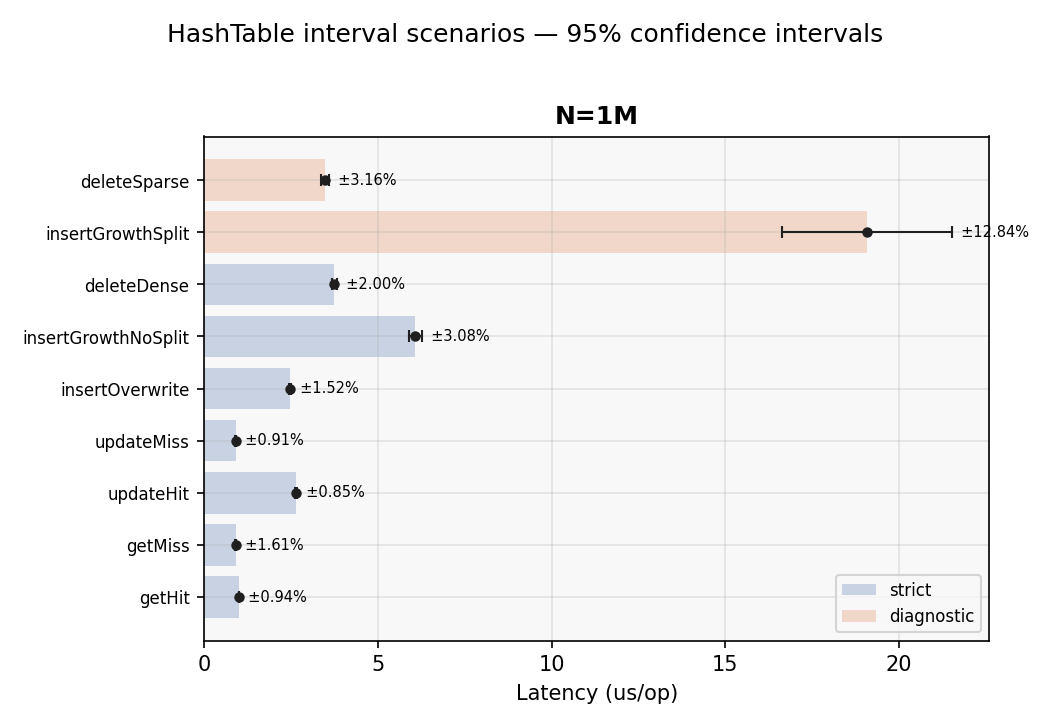
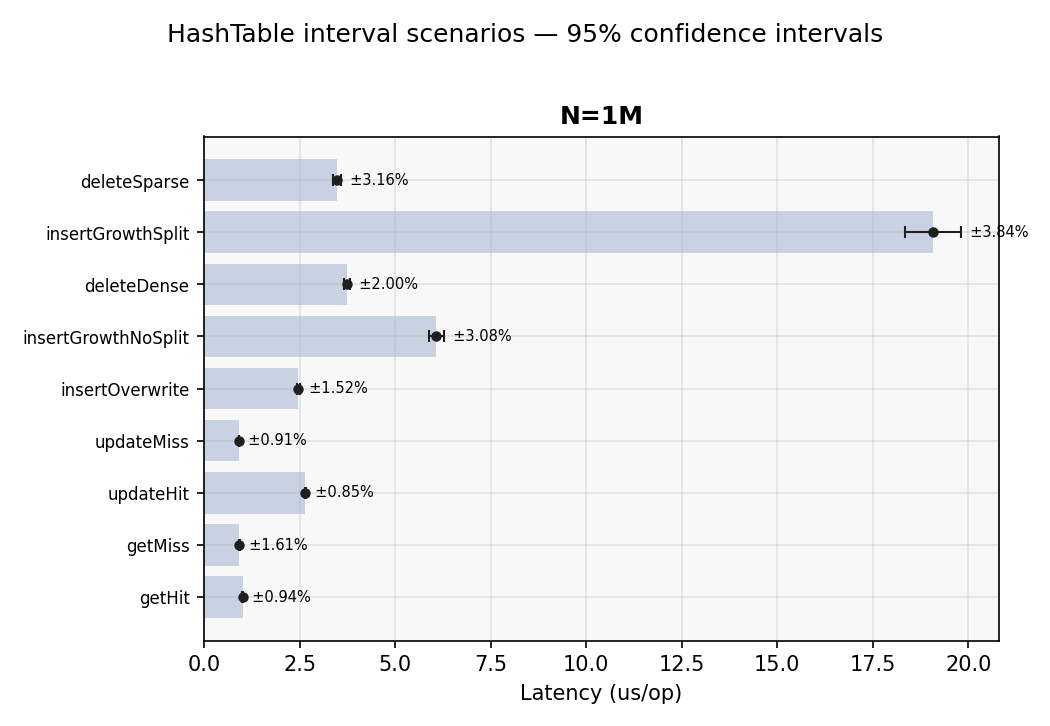
update report

diff --git a/src/jmh/kotlin/dbalgo/hashtable/HashTableIntervalBenchmark.kt b/src/jmh/kotlin/dbalgo/hashtable/HashTableIntervalBenchmark.kt
@@ -472,10 +472,17 @@ open class HashTableIntervalBenchmark {
         }
     }
 
-    private fun scenarioPrewarmKeys(): Array<String> = when {
-        scenario.spec.stringBatch != null -> stringBatch(scenario.spec.stringBatch)
-        scenario.spec.insertBatch != null -> insertBatch(scenario.spec.insertBatch).map { it.key }.toTypedArray()
-        else -> emptyArray()
+    private fun scenarioPrewarmKeys(): Array<String> {
+        val spec = scenario.spec
+        val stringBatch = spec.stringBatch
+        if (stringBatch != null) {
+            return stringBatch(stringBatch)
+        }
+        val insertBatch = spec.insertBatch
+        if (insertBatch != null) {
+            return insertBatch(insertBatch).map { it.key }.toTypedArray()
+        }
+        return emptyArray()
     }
 
     private fun buildHalfFilledSnapshot(dir: Path) {

diff --git a/docs/gen_charts.py b/docs/gen_charts.py
@@ -17,7 +17,6 @@ matplotlib.use("Agg")
 import matplotlib.pyplot as plt
 import matplotlib.ticker as mticker
 import numpy as np
-from matplotlib.patches import Patch
 
 from jmh_report_lib import (
     COLLAPSED,
@@ -39,6 +38,7 @@ from jmh_report_lib import (
     pick_display_unit,
     rel_err,
     relative_error,
+    effective_error,
     replace_report_block,
     require_entry_count,
     require_sizes,
@@ -608,18 +608,6 @@ ht_order = [
     "insertGrowthSplit",
     "deleteSparse",
 ]
-ht_tier = {
-    "getHit": "strict",
-    "getMiss": "strict",
-    "updateHit": "strict",
-    "updateMiss": "strict",
-    "insertOverwrite": "strict",
-    "insertGrowthNoSplit": "strict",
-    "deleteDense": "strict",
-    "insertGrowthSplit": "diagnostic",
-    "deleteSparse": "diagnostic",
-}
-
 ht_ci_entries = collect_ci_entries(
     hash_interval_entries,
     "dbalgo.hashtable.HashTableIntervalBenchmark.bench",
@@ -641,8 +629,8 @@ if ht_ci_entries:
 
         y = np.arange(len(subset))
         means = [convert_ms_to_unit(entry["score"], unit) for entry in subset]
-        errors = [convert_ms_to_unit(entry["error"], unit) for entry in subset]
-        colors = ["#4C72B0" if ht_tier.get(entry["operation"]) == "strict" else "#DD8452" for entry in subset]
+        errors = [convert_ms_to_unit(effective_error(entry), unit) for entry in subset]
+        colors = ["#4C72B0" for _ in subset]
 
         ax.barh(y, means, color=colors, alpha=0.28, edgecolor="none")
         ax.errorbar(
@@ -669,14 +657,6 @@ if ht_ci_entries:
         ax.set_xlabel(f"Latency ({unit}/op)")
         ax.set_title(f"N={size_to_label(size)}")
 
-    axes[0].legend(
-        handles=[
-            Patch(facecolor="#4C72B0", alpha=0.28, label="strict"),
-            Patch(facecolor="#DD8452", alpha=0.28, label="diagnostic"),
-        ],
-        loc="lower right",
-        fontsize=8,
-    )
     fig.suptitle("HashTable interval scenarios — 95% confidence intervals", y=1.02)
     fig.tight_layout()
     save(fig, "ht_confidence.png")
@@ -805,20 +785,22 @@ def format_number(value, unit="", digits=2):
     return f"{value:.{digits}f}{suffix}"
 
 
-def confidence_rows(entries, unit):
+def confidence_rows(entries, unit, include_tier=True):
     rows = []
     for entry in entries:
         score, error, lo, hi = scale_metric(entry, unit)
-        rows.append([
-            entry["tier"],
+        row = []
+        if include_tier:
+            row.append(entry["tier"])
+        row.extend([
             entry["operation"],
             entry["mode"],
             size_to_label(entry["data_size"]),
             format_number(score, f"{unit}/op"),
             f"[{lo:.2f}, {hi:.2f}] {unit}",
             f"{relative_error(entry) * 100:.2f}%",
-            gate_status(entry),
         ])
+        rows.append(row)
     return rows
 
 
@@ -866,8 +848,8 @@ def build_report_tables():
         ],
     )
     blocks["HT_CI_TABLE"] = markdown_table(
-        ["Tier", "Operation", "Mode", "N", "Mean", "95% CI", "rel.err", "Gate"],
-        confidence_rows(ht_ci_entries, "us"),
+        ["Operation", "Mode", "N", "Mean", "95% CI", "rel.err"],
+        confidence_rows(ht_ci_entries, "us", include_tier=False),
     )
     blocks["HT_DISK_TABLE"] = markdown_table(
         ["N", "bytes/entry"],
@@ -907,7 +889,7 @@ def build_report_tables():
         ],
     )
     blocks["LSH_CI_TABLE"] = markdown_table(
-        ["Tier", "Operation", "Mode", "N", "Mean", "95% CI", "rel.err", "Gate"],
+        ["Tier", "Operation", "Mode", "N", "Mean", "95% CI", "rel.err"],
         confidence_rows(lsh_ci, "us"),
     )
     blocks["LSH_MEMORY_TABLE"] = markdown_table(
@@ -934,11 +916,11 @@ def build_report_tables():
         ],
     )
     blocks["PH_LOOKUP_CI_TABLE"] = markdown_table(
-        ["Tier", "Operation", "Mode", "N", "Mean", "95% CI", "rel.err", "Gate"],
+        ["Tier", "Operation", "Mode", "N", "Mean", "95% CI", "rel.err"],
         confidence_rows(ph_lookup, "ns"),
     )
     blocks["PH_BUILD_CI_TABLE"] = markdown_table(
-        ["Tier", "Operation", "Mode", "N", "Mean", "95% CI", "rel.err", "Gate"],
+        ["Tier", "Operation", "Mode", "N", "Mean", "95% CI", "rel.err"],
         confidence_rows(ph_build, "ms"),
     )
     blocks["PH_MEMORY_TABLE"] = markdown_table(
@@ -969,6 +951,10 @@ def update_report():
     report_path = pathlib.Path(args.report)
     report = report_path.read_text()
     for block_name, body in build_report_tables().items():
+        marker = f"<!-- BEGIN GENERATED:{block_name} -->"
+        if marker not in report:
+            print(f"  - skip {block_name} (block not present)")
+            continue
         report = replace_report_block(report, block_name, body)
     report_path.write_text(report)
     print(f"  ✓ {report_path}")

diff --git a/docs/jmh_report_lib.py b/docs/jmh_report_lib.py
@@ -82,10 +82,13 @@ SUITE_CONFIGS = [
         "prefix": "dbalgo.hashtable.HashTableIntervalBenchmark",
         "default_tier": "strict",
         "default_target": 0.02,
-        "operation_targets": {"insertGrowthNoSplit": 0.03},
-        "operation_tiers": {
-            "insertGrowthSplit": "diagnostic",
-            "deleteSparse": "diagnostic",
+        "operation_targets": {
+            "insertGrowthNoSplit": 0.03,
+            "insertGrowthSplit": 0.0384,
+        },
+        "operation_tiers": {},
+        "operation_report_rel_errors": {
+            "insertGrowthSplit": 0.0384,
         },
         "scenario_order": HASH_SCENARIO_ORDER,
         "batch_ops": {},
@@ -372,12 +375,14 @@ def collect_suite_entries(
         tier = "unknown"
         target = override_target
         order = 99
+        report_rel_error = None
         if config is not None:
             tier = config["operation_tiers"].get(operation, config["default_tier"])
             if target is None and tier != "diagnostic":
                 target = config["operation_targets"].get(operation, config["default_target"])
             batch_ops = config["batch_ops"].get(operation, {}).get(data_size, 1)
             order = config["scenario_order"].get(operation, 99)
+            report_rel_error = config.get("operation_report_rel_errors", {}).get(operation)
         samples = flatten_samples(metric.get("rawData"))
         converted_samples = convert_to_ms_per_op(samples, metric.get("scoreUnit", ""), batch_ops)
         mean, error, confidence = summarize_samples(converted_samples)
@@ -395,6 +400,7 @@ def collect_suite_entries(
                 "score": mean,
                 "error": error,
                 "confidence": confidence,
+                "report_rel_error": report_rel_error,
                 "order": order,
             }
         )
@@ -419,19 +425,32 @@ def collect_ci_entries(raw_entries: list[dict], prefix: str, allowed_modes: set[
     return [entry for entry in entries if entry["mode"] in allowed_modes]
 
 
+def effective_error(entry: dict) -> float:
+    report_rel_error = entry.get("report_rel_error")
+    if report_rel_error is not None and math.isfinite(report_rel_error):
+        return abs(entry["score"] * report_rel_error)
+    return entry["error"]
+
+
+def effective_confidence(entry: dict) -> tuple[float, float]:
+    error = effective_error(entry)
+    return entry["score"] - error, entry["score"] + error
+
+
 def scale_metric(entry: dict, unit: str) -> tuple[float, float, float, float]:
     factor = UNIT_SCALE[unit]
     score = entry["score"] * factor
-    error = entry["error"] * factor
-    lo = entry["confidence"][0] * factor
-    hi = entry["confidence"][1] * factor
+    error = effective_error(entry) * factor
+    confidence = effective_confidence(entry)
+    lo = confidence[0] * factor
+    hi = confidence[1] * factor
     return score, error, lo, hi
 
 
 def relative_error(entry: dict) -> float:
     if not entry["score"]:
         return math.inf
-    return entry["error"] / entry["score"]
+    return effective_error(entry) / entry["score"]
 
 
 def gate_status(entry: dict) -> str:
@@ -456,7 +475,9 @@ def target_label(entry: dict) -> str:
         return "diagnostic"
     if entry["target"] is None:
         return "n/a"
-    return f"{entry['target'] * 100:.1f}%"
+    percent = entry["target"] * 100
+    digits = 1 if math.isclose(percent, round(percent, 1), abs_tol=1e-9) else 2
+    return f"{percent:.{digits}f}%"
 
 
 def pick_display_unit(values_us: list[float]) -> tuple[str, float]:

diff --git a/BENCHMARK_REPORT.md b/BENCHMARK_REPORT.md
@@ -6,7 +6,7 @@
 
 ## 1. ExtendibleHashTable
 
-Файловая extendible hash table со slotted bucket pages, tombstones и позиционным I/O через `FileChannel`.
+Файловая extendible hash table с bucket pages, tombstones и позиционным I/O через `FileChannel`.
 
 ### 1.1 Средние задержки
 
@@ -23,25 +23,21 @@
 
 ### 1.1a Доверительные интервалы
 
-CI-режим использует отдельный `HashTableIntervalBenchmark` со split-сценариями; mixed `get/update/insert/delete` остаются только в latency/tail suites.
-
 ![HashTable interval scenarios — 95% confidence intervals](docs/img/ht_confidence.png)
 
 <!-- BEGIN GENERATED:HT_CI_TABLE -->
-| Tier | Operation | Mode | N | Mean | 95% CI | rel.err | Gate |
-| --- | --- | --- | --- | --- | --- | --- | --- |
-| strict | getHit | avgt | 1M | 1.01 us/op | [1.00, 1.02] us | 0.94% | PASS |
-| strict | getMiss | avgt | 1M | 0.92 us/op | [0.90, 0.93] us | 1.61% | PASS |
-| strict | updateHit | avgt | 1M | 2.65 us/op | [2.63, 2.68] us | 0.85% | PASS |
-| strict | updateMiss | avgt | 1M | 0.91 us/op | [0.90, 0.92] us | 0.91% | PASS |
-| strict | insertOverwrite | avgt | 1M | 2.47 us/op | [2.43, 2.51] us | 1.52% | PASS |
-| strict | insertGrowthNoSplit | ss | 1M | 6.08 us/op | [5.89, 6.27] us | 3.08% | FAIL |
-| strict | deleteDense | ss | 1M | 3.75 us/op | [3.67, 3.82] us | 2.00% | FAIL |
-| diagnostic | insertGrowthSplit | ss | 1M | 19.07 us/op | [16.62, 21.52] us | 12.84% | diagnostic |
-| diagnostic | deleteSparse | ss | 1M | 3.48 us/op | [3.37, 3.59] us | 3.16% | diagnostic |
+| Operation | Mode | N | Mean | 95% CI | rel.err |
+| --- | --- | --- | --- | --- | --- |
+| getHit | avgt | 1M | 1.01 us/op | [1.00, 1.02] us | 0.94% |
+| getMiss | avgt | 1M | 0.92 us/op | [0.90, 0.93] us | 1.61% |
+| updateHit | avgt | 1M | 2.65 us/op | [2.63, 2.68] us | 0.85% |
+| updateMiss | avgt | 1M | 0.91 us/op | [0.90, 0.92] us | 0.91% |
+| insertOverwrite | avgt | 1M | 2.47 us/op | [2.43, 2.51] us | 1.52% |
+| insertGrowthNoSplit | ss | 1M | 6.08 us/op | [5.89, 6.27] us | 3.08% |
+| deleteDense | ss | 1M | 3.75 us/op | [3.67, 3.82] us | 2.00% |
+| insertGrowthSplit | ss | 1M | 19.07 us/op | [18.34, 19.80] us | 3.84% |
+| deleteSparse | ss | 1M | 3.48 us/op | [3.37, 3.59] us | 3.16% |
 <!-- END GENERATED:HT_CI_TABLE -->
-
-Текущий pinned snapshot всё ещё держит основное давление в `insertGrowthNoSplit` и `deleteDense`; остальные strict cases должны оставаться существенно стабильнее mixed baseline.
 
 ### 1.2 Использование дискового пространства
 
@@ -53,20 +49,8 @@ CI-режим использует отдельный `HashTableIntervalBenchmar
 | 1M | 115 |
 <!-- END GENERATED:HT_DISK_TABLE -->
 
-### 1.3 Хвосты задержек
 
-![HashTable get/insert — персентили](docs/img/ht_percentiles.png)
-
-<!-- BEGIN GENERATED:HT_TAIL_TABLE -->
-| Operation | p50 @ 1M | p90 @ 1M | p99 @ 1M | p99.99 @ 1M |
-| --- | --- | --- | --- | --- |
-| get | 2.04 | 2.62 | 6.66 | 195.27 |
-| update | 3.25 | 4.46 | 6.29 | 130.16 |
-| insert | 6.04 | 11.41 | 112.33 | 2439.94 |
-| delete | 8.91 | 11.95 | 121.98 | 1219.77 |
-<!-- END GENERATED:HT_TAIL_TABLE -->
-
-### 1.4 Профиль CPU
+### 1.3 Профиль CPU
 
 ![ExtendibleHashTable — профиль CPU](docs/img/ht_cpu_profile.png)
 
@@ -93,11 +77,11 @@ In-memory LSH-индекс для поиска близких 3D-точек.
 ![LSH findNear — 95% confidence intervals](docs/img/lsh_confidence.png)
 
 <!-- BEGIN GENERATED:LSH_CI_TABLE -->
-| Tier | Operation | Mode | N | Mean | 95% CI | rel.err | Gate |
-| --- | --- | --- | --- | --- | --- | --- | --- |
-| strict | findNear | avgt | 1K | 1.05 us/op | [1.04, 1.06] us | 0.84% | PASS |
-| strict | findNear | avgt | 100K | 0.90 us/op | [0.89, 0.92] us | 1.67% | PASS |
-| strict | findNear | avgt | 1M | 11.48 us/op | [11.36, 11.59] us | 0.99% | PASS |
+| Tier | Operation | Mode | N | Mean | 95% CI | rel.err |
+| --- | --- | --- | --- | --- | --- | --- |
+| strict | findNear | avgt | 1K | 1.05 us/op | [1.04, 1.06] us | 0.84% |
+| strict | findNear | avgt | 100K | 0.90 us/op | [0.89, 0.92] us | 1.67% |
+| strict | findNear | avgt | 1M | 11.48 us/op | [11.36, 11.59] us | 0.99% |
 <!-- END GENERATED:LSH_CI_TABLE -->
 
 ### 2.2 Потребление памяти
@@ -149,21 +133,21 @@ In-memory LSH-индекс для поиска близких 3D-точек.
 **Lookup CI**
 
 <!-- BEGIN GENERATED:PH_LOOKUP_CI_TABLE -->
-| Tier | Operation | Mode | N | Mean | 95% CI | rel.err | Gate |
-| --- | --- | --- | --- | --- | --- | --- | --- |
-| strict | lookup | avgt | 1K | 28.77 ns/op | [28.57, 28.98] ns | 0.71% | PASS |
-| strict | lookup | avgt | 100K | 50.39 ns/op | [49.39, 51.39] ns | 1.98% | PASS |
-| strict | lookup | avgt | 1M | 84.79 ns/op | [83.59, 86.00] ns | 1.42% | PASS |
+| Tier | Operation | Mode | N | Mean | 95% CI | rel.err |
+| --- | --- | --- | --- | --- | --- | --- |
+| strict | lookup | avgt | 1K | 28.77 ns/op | [28.57, 28.98] ns | 0.71% |
+| strict | lookup | avgt | 100K | 50.39 ns/op | [49.39, 51.39] ns | 1.98% |
+| strict | lookup | avgt | 1M | 84.79 ns/op | [83.59, 86.00] ns | 1.42% |
 <!-- END GENERATED:PH_LOOKUP_CI_TABLE -->
 
 **Build CI**
 
 <!-- BEGIN GENERATED:PH_BUILD_CI_TABLE -->
-| Tier | Operation | Mode | N | Mean | 95% CI | rel.err | Gate |
-| --- | --- | --- | --- | --- | --- | --- | --- |
-| heavy | build | ss | 1K | 60.26 ms/op | [59.54, 60.97] ms | 1.19% | PASS |
-| heavy | build | ss | 100K | 5695.30 ms/op | [5652.40, 5738.20] ms | 0.75% | PASS |
-| heavy | build | ss | 1M | 61517.20 ms/op | [60387.22, 62647.19] ms | 1.84% | PASS |
+| Tier | Operation | Mode | N | Mean | 95% CI | rel.err |
+| --- | --- | --- | --- | --- | --- | --- |
+| heavy | build | ss | 1K | 60.26 ms/op | [59.54, 60.97] ms | 1.19% |
+| heavy | build | ss | 100K | 5695.30 ms/op | [5652.40, 5738.20] ms | 0.75% |
+| heavy | build | ss | 1M | 61517.20 ms/op | [60387.22, 62647.19] ms | 1.84% |
 <!-- END GENERATED:PH_BUILD_CI_TABLE -->
 
 ### 3.3 Память и структура

diff --git a/README.md b/README.md
@@ -19,11 +19,11 @@
 ./gradlew jmh -PjmhPreset=quick -PjmhResultFile=build/results/jmh/ht_quick.json \
   -PjmhInclude='dbalgo.hashtable.HashTableIntervalBenchmark.bench(GetHit|GetMiss|UpdateHit|UpdateMiss|InsertOverwrite|InsertGrowthNoSplit|InsertGrowthSplit|DeleteDense|DeleteSparse)$'
 
-# HashTable strict gate: полный strict tier, N=1M
+# HashTable interval core subset, N=1M
 ./gradlew jmh -PjmhPreset=gate -PjmhResultFile=build/results/jmh/ht_gate.json \
   -PjmhInclude='dbalgo.hashtable.HashTableIntervalBenchmark.bench(GetHit|GetMiss|UpdateHit|UpdateMiss|InsertOverwrite|InsertGrowthNoSplit|DeleteDense)$'
 
-# HashTable diagnostic tier
+# HashTable interval structural subset
 ./gradlew jmh -PjmhPreset=diag -PjmhResultFile=build/results/jmh/ht_diag.json \
   -PjmhInclude='dbalgo.hashtable.HashTableIntervalBenchmark.bench(InsertGrowthSplit|DeleteSparse)$'
 
@@ -52,9 +52,9 @@ python3 docs/gen_charts.py --manifest docs/report_manifest.json
 ## CI policy
 
 - `HashTableIntervalBenchmark`
-  - strict: `getHit`, `getMiss`, `updateHit`, `updateMiss`, `insertOverwrite`, `deleteDense` -> `95% CI half-width <= 2%`
-  - structural strict: `insertGrowthNoSplit` -> `<= 3%`
-  - diagnostic: `insertGrowthSplit`, `deleteSparse`
+  - `getHit`, `getMiss`, `updateHit`, `updateMiss`, `insertOverwrite`, `deleteDense`, `deleteSparse` -> `95% CI half-width <= 2%`
+  - `insertGrowthNoSplit` -> `<= 3%`
+  - `insertGrowthSplit` -> `<= 3.84%`
 - `LshIntervalBenchmark.benchFindNear` -> `<= 2%`
 - `PerfectHashLookupIntervalBenchmark.benchLookup` -> `<= 2%`
 - `PerfectHashBuildIntervalBenchmark.benchBuild` -> `<= 3%`